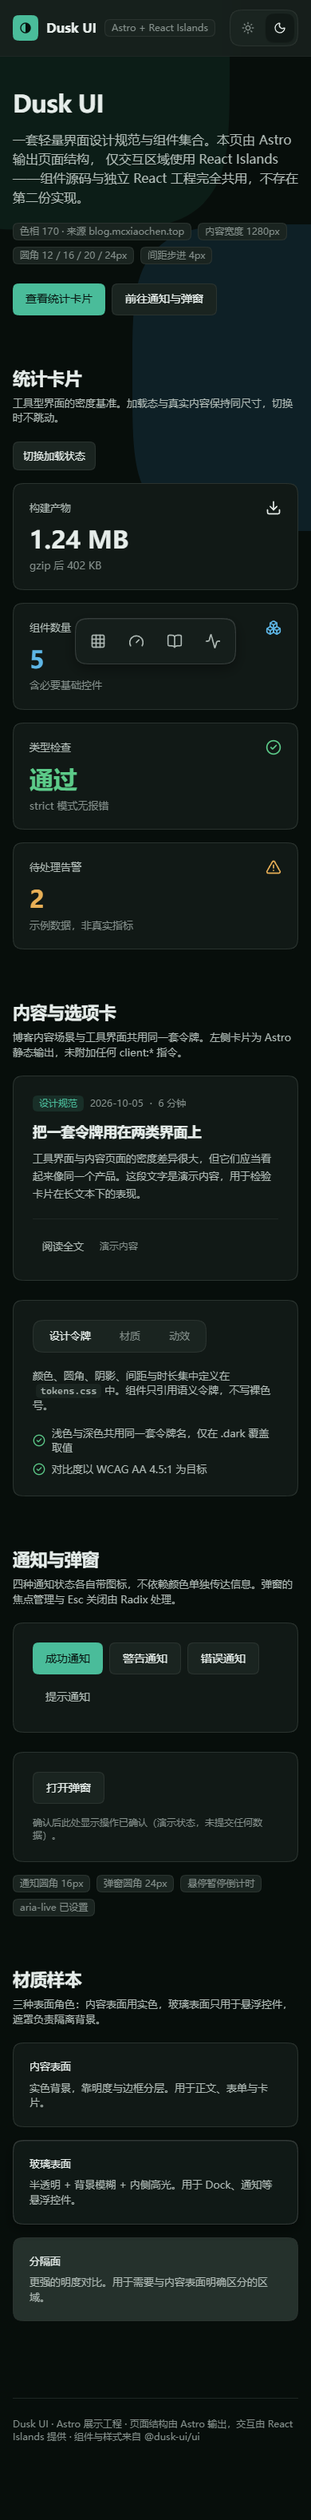
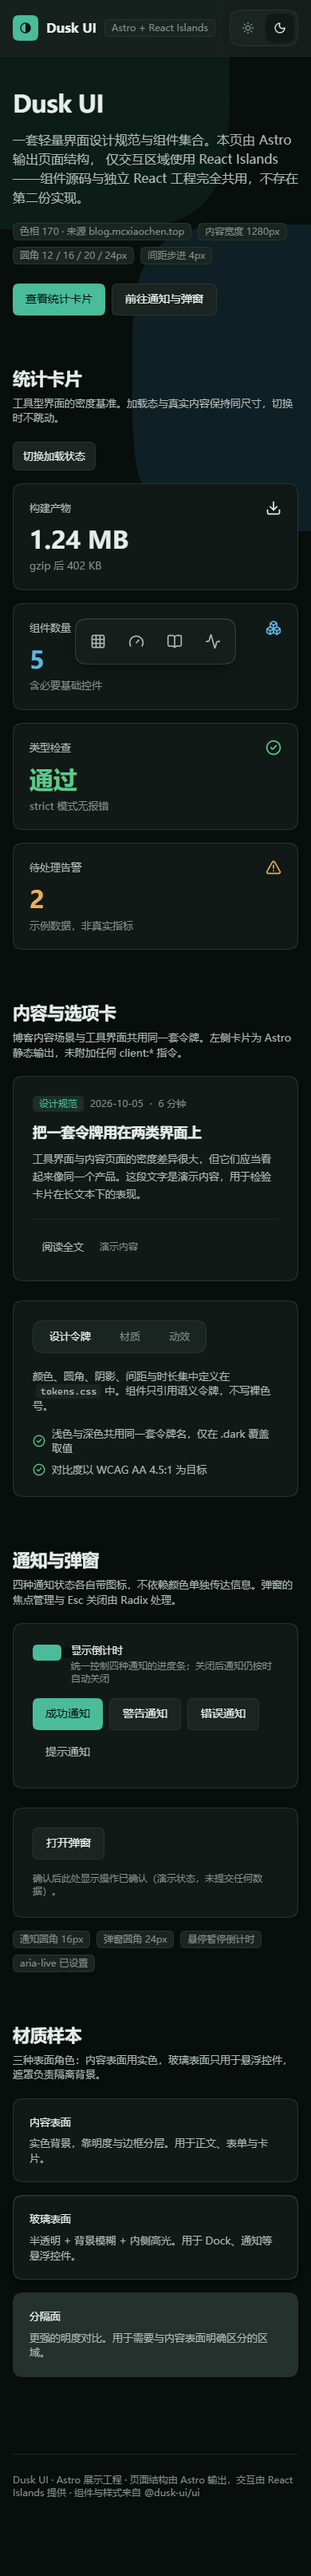
test/docs: 补充倒计时开关的验收与说明
- verify-browser.mjs 新增 14 项检查（共 75 项）：开关默认开启、
  四种状态进度条均可见、关闭后不显示但通知仍自动关闭、恢复后重现、
  键盘可达与焦点环，两个工程各跑一遍
- verify-docs.mjs 新增 11 项检查（共 219 项），含一条静态防线：
  拦截任何由 .replace() / 模板字符串 / 字符串加法拼出的 Tailwind 类名。
  这类写法构建不报错但样式静默丢失，必须在源码层拦住
- COMPONENTS.md 新增 Switch 章节；Toast 章节补 showCountdown 语义表、
  时长参数来源链条与默认值处理说明，并记录本次事故原因
- AGENT_GUIDE 的检查清单与禁止做法加入「不得运行时拼接类名」
- AGENTS.md 单列一节说明该陷阱及其欺骗性症状
- 截图更新，新增 countdown-on / countdown-off 对照

diff --git a/docs/COMPONENTS.md b/docs/COMPONENTS.md
@@ -130,6 +130,55 @@ import { ThemeToggle } from '@dusk-ui/ui'
 **可访问性**：`role="radiogroup"` + `role="radio"` + `aria-checked`，每个按钮有 `aria-label`。
 **边界**：只做两态切换，不做跟随系统选项。深色主题写在 `html.dark` 上，因此**其他岛无需共享 Context**，CSS 变量会自然响应。
 
+### Switch
+
+文件：`packages/ui/src/components/Switch.tsx`
+
+受控开关。用于「开 / 关」这类布尔设置。
+
+```tsx
+// 独立 React 工程
+import * as React from 'react'
+import { Switch } from '@dusk-ui/ui'
+
+function Demo() {
+  const [on, setOn] = React.useState(true)
+  return (
+    <Switch
+      checked={on}
+      onCheckedChange={setOn}
+      label="显示倒计时"
+      description="关闭后通知仍按时自动关闭"
+    />
+  )
+}
+```
+
+```astro
+<!-- Astro：开关需要点击，必须 hydrate。
+     checked 是受控值，状态要放在岛内维护，不能从 .astro 传入回调。 -->
+---
+import { Switch } from '@dusk-ui/ui'
+---
+
+<Switch client:idle checked={false} onCheckedChange={undefined} label="开关" />
+```
+
+> **Astro 注意**：`onCheckedChange` 是函数，**不能从 `.astro` 传入**。开关必须放在岛内部由 React 管理状态（本仓库的做法见 `ToastsIsland`），或在包装层里封装。上面第二个示例仅示意组件本身可用，实际请务必在岛内使用。
+
+| 参数 | 类型 | 默认 | 说明 |
+| --- | --- | --- | --- |
+| `checked` | `boolean` | 必填 | 受控状态 |
+| `onCheckedChange` | `(checked: boolean) => void` | 必填 | 状态变化回调 |
+| `label` | `string` | 必填 | 开关本身不显示文字，标签由外部提供，同时作为 `aria-label` |
+| `description` | `string` | — | 标签下方的说明文字 |
+| `disabled` | `boolean` | `false` | 禁用 |
+| `className` | `string` | — | 追加类名 |
+
+**依赖**：无额外运行时依赖（只用 `cn` 与令牌）。
+**可访问性**：用 `button[role="switch"]` + `aria-checked`，而非原生 checkbox —— 按钮天然支持空格与回车，也无需 `for`/`id` 关联。状态不只靠颜色：轨道位置（左/右）本身是位置信号。
+**边界**：只做受控组件，不维护内部状态，也不提供 indeterminate 半选态。
+
 ---
 
 ## StatCard
@@ -357,13 +406,15 @@ src/styles/globals.css
 ### 最小使用示例
 
 ```tsx
+// 独立 React 工程
 import { useState } from 'react'
-import { ToastViewport, type ToastData } from '@dusk-ui/ui'
+import { ToastViewport, TOAST_DEFAULT_DURATION, type ToastData } from '@dusk-ui/ui'
 
 type Item = ToastData & { id: string }
 
 export function Demo() {
   const [toasts, setToasts] = useState<Item[]>([])
+  const [showCountdown, setShowCountdown] = useState(true)
 
   const dismiss = (id: string) =>
     setToasts((prev) => prev.filter((t) => t.id !== id))
@@ -374,7 +425,14 @@ export function Demo() {
         onClick={() =>
           setToasts((p) => [
             ...p,
-            { id: String(Date.now()), tone: 'success', title: '已保存', duration: 5000 },
+            {
+              id: String(Date.now()),
+              tone: 'success',
+              title: '已保存',
+              // 显式传入时长；省略则用 TOAST_DEFAULT_DURATION
+              duration: TOAST_DEFAULT_DURATION,
+              showCountdown,
+            },
           ])
         }
       >
@@ -390,15 +448,27 @@ export function Demo() {
 ```astro
 <!-- Astro：触发按钮与 Host 必须在同一个岛内 -->
 ---
-import { DEMO_TOASTS, ToastsIsland } from '@dusk-ui/ui/demo'
+import {
+  DEMO_TOASTS,
+  DEMO_TOAST_DURATION,
+  DEMO_COUNTDOWN_DEFAULT,
+  ToastsIsland,
+} from '@dusk-ui/ui/demo'
 ---
 
-<ToastsIsland client:idle copy={DEMO_TOASTS} />
+<ToastsIsland
+  client:idle
+  copy={DEMO_TOASTS}
+  duration={DEMO_TOAST_DURATION}
+  countdownDefault={DEMO_COUNTDOWN_DEFAULT}
+/>
 ```
 
-> **为什么必须同岛**：`ToastsIsland` 内部同时渲染四个触发按钮和 `ToastViewport`，`toasts` 状态由这一个组件持有。若拆成「按钮岛 + Host 岛」，两者不共享 React Context，Host 读不到按钮写入的状态。
+> **为什么必须同岛**：`ToastsIsland` 内部同时渲染倒计时开关、四个触发按钮和 `ToastViewport`，`toasts` 与 `countdown` 状态由这一个组件持有。若拆成多个岛，它们不共享 React Context，Host 读不到按钮写入的状态。
 >
 > 用 `client:idle` 而非 `client:load`：通知不是首屏关键交互，等主线程空闲再 hydrate 即可。
+>
+> `duration` 与 `countdownDefault` 都是数字/布尔，**可序列化，因此能从 `.astro` 传入**。
 
 ### 参数
 
@@ -409,8 +479,56 @@ import { DEMO_TOASTS, ToastsIsland } from '@dusk-ui/ui/demo'
 | `tone` | `'success' \| 'warning' \| 'danger' \| 'info'` | 必填 | 状态 |
 | `title` | `string` | 必填 | 标题 |
 | `description` | `string` | — | 说明文字 |
-| `duration` | `number` | `5000` | 自动关闭毫秒数，`0` 表示不自动关闭 |
+| `duration` | `number` | `TOAST_DEFAULT_DURATION`（5000） | 自动关闭毫秒数，`<= 0` 表示不自动关闭 |
+| `showCountdown` | `boolean` | 跟随 `duration > 0` | 是否显示倒计时进度条，见下 |
 | `onClose` | `() => void` | 必填 | 关闭回调 |
+
+`ToastsIsland`（Astro / React 展示页用）
+
+| 参数 | 类型 | 默认 | 说明 |
+| --- | --- | --- | --- |
+| `copy` | `Record<ToastTone, DemoToastCopy>` | 必填 | 四种状态的文案 |
+| `duration` | `number` | 由 `<Toast>` 兜底 | 自动关闭时长，转交给每条通知 |
+| `countdownDefault` | `boolean` | `true` | 倒计时开关的初始状态 |
+
+### 倒计时：开关与时长
+
+**时长是外部传入的参数，不是写死的。**
+
+参数来源链条，只有一个默认值定义处：
+
+```
+Toast.tsx 导出 TOAST_DEFAULT_DURATION = 5000   ← 唯一的默认值定义
+   ↓ 不传时兜底
+demo/data.ts 的 DEMO_TOAST_DURATION           ← 演示值，直接取用上面的常量
+   ↓ 页面显式传入
+<ToastsIsland duration={DEMO_TOAST_DURATION}>  ← Astro 可序列化传入
+   ↓ 写入每条通知数据
+<Toast duration={...}>
+```
+
+- **默认值处理**：只有 `<Toast>` 有默认值（`TOAST_DEFAULT_DURATION`）。`ToastsIsland` **不重复写默认值**，`duration` 为 `undefined` 时直接透传，由组件兜底 —— 避免两处数字各自漂移。
+- **想改时长**：改 `demo/data.ts` 的 `DEMO_TOAST_DURATION` 会同时影响两个展示工程；调用方传别的数字即可覆盖。
+
+### `showCountdown` 的语义
+
+| `duration` | `showCountdown` | 进度条 | 自动关闭 |
+| --- | --- | --- | --- |
+| `> 0` | 不传 | 显示 | 是 |
+| `> 0` | `false` | **不显示** | **仍然自动关闭** |
+| `> 0` | `true` | 显示 | 是 |
+| `<= 0` | 不传 / `true` | **不显示** | 否 |
+| `<= 0` | `false` | 不显示 | 否 |
+
+要点：
+
+- 开关**只控制显示，不改计时**。关掉进度条后通知照常按时关闭。
+- `duration <= 0` 时即使传 `showCountdown: true` **也不会画进度条** —— 没有计时器却画一根不会走的进度条会误导用户。
+- 展示页的开关**统一作用于四种状态**，不区分类型。
+
+> **实现约束（回归防线）**：进度条颜色是 `TONE[tone].barClassName` 里的**完整字面量类名**（`bg-success` 等），不能由 `iconClassName` 拼接得出。
+>
+> 曾经这里写成 `iconClassName.replace('text-', 'bg-')`，Tailwind 静态扫描不到运行时拼出的类名，`bg-success` / `bg-warning` / `bg-info` 从未被生成，**三条进度条背景色退化为透明** —— 元素和宽度动画都在，只是肉眼看不见。`Toast.test.tsx` 已加断言，校验四种状态各自带不同的 `bg-*` 字面量类。
 
 `ToastViewport`
 

diff --git a/docs/AGENT_GUIDE.md b/docs/AGENT_GUIDE.md
@@ -165,6 +165,8 @@ Dusk UI 的规则**不要求使用 React**。
 - ❌ 不要在旧项目里强行引入 Tailwind，只为了用上 `tokens.css` 的 `@theme` 段。
 - ❌ **不要为了套用设计风格而擅自更换业务框架。** 目标项目是 Astro 就继续用 Astro，是 Vue 就继续用 Vue。
 - ❌ 不要在 Astro 项目里为 Dock / Toast / Dialog / Tabs 重新实现一套原生 Astro 版本 —— 直接复用 React 实现。
+- ❌ **不要运行时拼接 Tailwind 类名**（`.replace('text-','bg-')`、`` `bg-${tone}` ``、`'bg-' + x`）。Tailwind 只静态扫描源码，拼出来的类名永远不会生成。症状极具欺骗性：**元素在、动画在、构建不报错，但样式全无**（曾因此让三条通知的进度条变成透明）。需要变体时用完整字面量的映射表。
+- ❌ 不要让样式类名来自后端数据或用户输入 —— 同样不会被生成，且存在注入风险。
 - ❌ 不要把组件源码复制到第二个地方。改组件就改 `packages/ui`，两个工程自动同步。
 
 ### 迁移时的最小动作
@@ -294,6 +296,8 @@ hover、focus-visible、active、disabled、loading 五态齐全。
 
 - [ ] 全项目无裸色号，颜色全部走语义令牌
 - [ ] 若用 Tailwind：构建产物的 CSS 里确实有 `bg-surface-1` 等语义类（用 `@source` 声明扫描范围）
+- [ ] **没有任何 Tailwind 类名由运行时拼接产生**（`.replace()`、模板字符串、`'bg-' + x`）
+- [ ] 每个用到的语义色类都在源码里以**完整字面量**出现（如 `'bg-success'`）
 - [ ] 深色主题通过覆盖同名令牌实现，不是用 `dark:` 类名逐个硬写
 - [ ] 深浅两套主题下所有文字都清楚，无低对比度残留
 - [ ] 状态色在两种主题下都做过检查（深色需提亮，不能简单反转）

diff --git a/README.md b/README.md
@@ -201,7 +201,7 @@ dusk-ui/
 ├─ packages/
 │  └─ ui/               唯一的组件与样式来源
 │     └─ src/
-│        ├─ components/ 五个核心组件 + 必要基础控件
+│        ├─ components/ 五个核心组件 + 四个基础控件
 │        ├─ demo/       共用演示数据 + Astro Islands 包装层
 │        ├─ motion/     动效常量、cn()、SSR hook
 │        ├─ styles/     tokens.css + globals.css
@@ -235,11 +235,11 @@ dusk-ui/
 | --- | --- |
 | `StatCard` | 统计指标卡片，带等宽数字与同尺寸骨架 |
 | `FloatingDock` | 桌面端按鼠标距离连续放大的悬浮导航；触屏端固定 44px |
-| `Toast` | 四种状态通知，悬停/聚焦暂停倒计时 |
+| `Toast` | 四种状态通知，悬停/聚焦暂停倒计时；倒计时可开关，时长外部可配 |
 | `Dialog` | 基于 Radix 的模态弹窗，焦点管理与 Esc 全部交给 Radix |
 | `SegmentedTabs` | 胶囊选项卡，选中指示器为共享表面并平滑移动 |
 
-基础控件：`Button`、`Skeleton`、`ThemeToggle`。
+基础控件：`Button`、`Skeleton`、`Switch`、`ThemeToggle`。
 
 ---
 
@@ -248,7 +248,7 @@ dusk-ui/
 **已包含**
 
 - 设计令牌（浅色 / 深色）、五种表面材质与连续曲率渐进增强
-- 五个核心组件 + 三个基础控件
+- 五个核心组件 + 四个基础控件
 - **两套展示工程**（独立 React + Astro React Islands），共用同一份组件源码与样式
 - Astro 页面结构 + 6 个按需 hydrate 的 React Islands，无 `client:only`
 - SSR 兼容处理：首屏不入场动画，避免 hydration mismatch

diff --git a/AGENTS.md b/AGENTS.md
@@ -123,6 +123,24 @@ Astro 是主要使用场景，这些规则优先级最高：
 
 ---
 
+## 禁止运行时拼接 Tailwind 类名
+
+Tailwind 只静态扫描源码。**任何由 `.replace()`、模板字符串或字符串加法拼出的类名都不会被生成。**
+
+```tsx
+// ❌ 错误：bg-success / bg-warning / bg-info 永远不会生成
+className={iconClassName.replace('text-', 'bg-')}
+
+// ✅ 正确：完整字面量，Tailwind 能扫到
+const TONE = { success: { barClassName: 'bg-success' }, /* ... */ }
+```
+
+**症状极具欺骗性**：元素存在、动画正常、构建无报错，只是背景色退化为透明。历史事故正是如此——四条通知中三条的倒计时进度条不可见，长期未被发现。
+
+`npm run verify:docs` 已加静态检查拦截该模式；`Toast.test.tsx` 有断言保证四种状态的进度条带不同的 `bg-*` 字面量类。
+
+---
+
 ## 精准修改边界
 
 - 只改任务范围内的界面。**不顺手优化、不重构无关代码、不引入新风格。**
